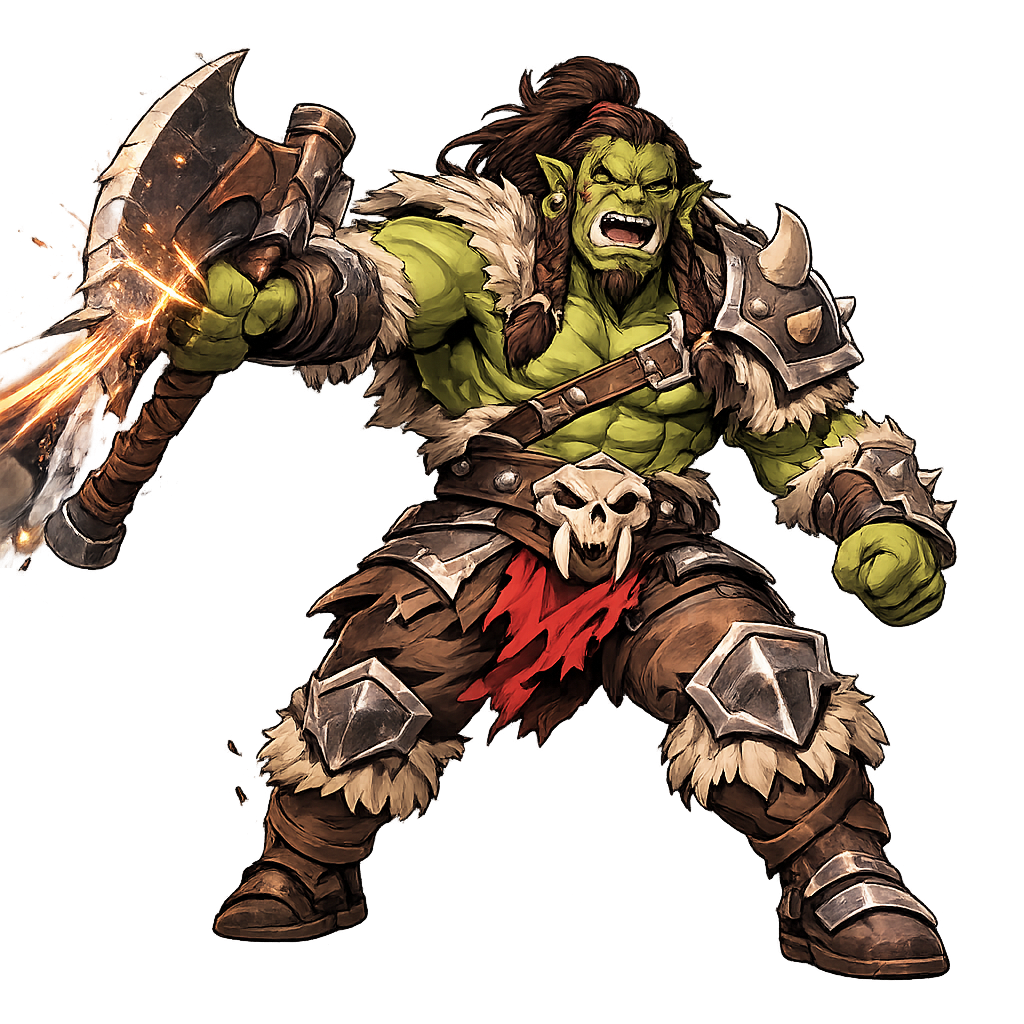
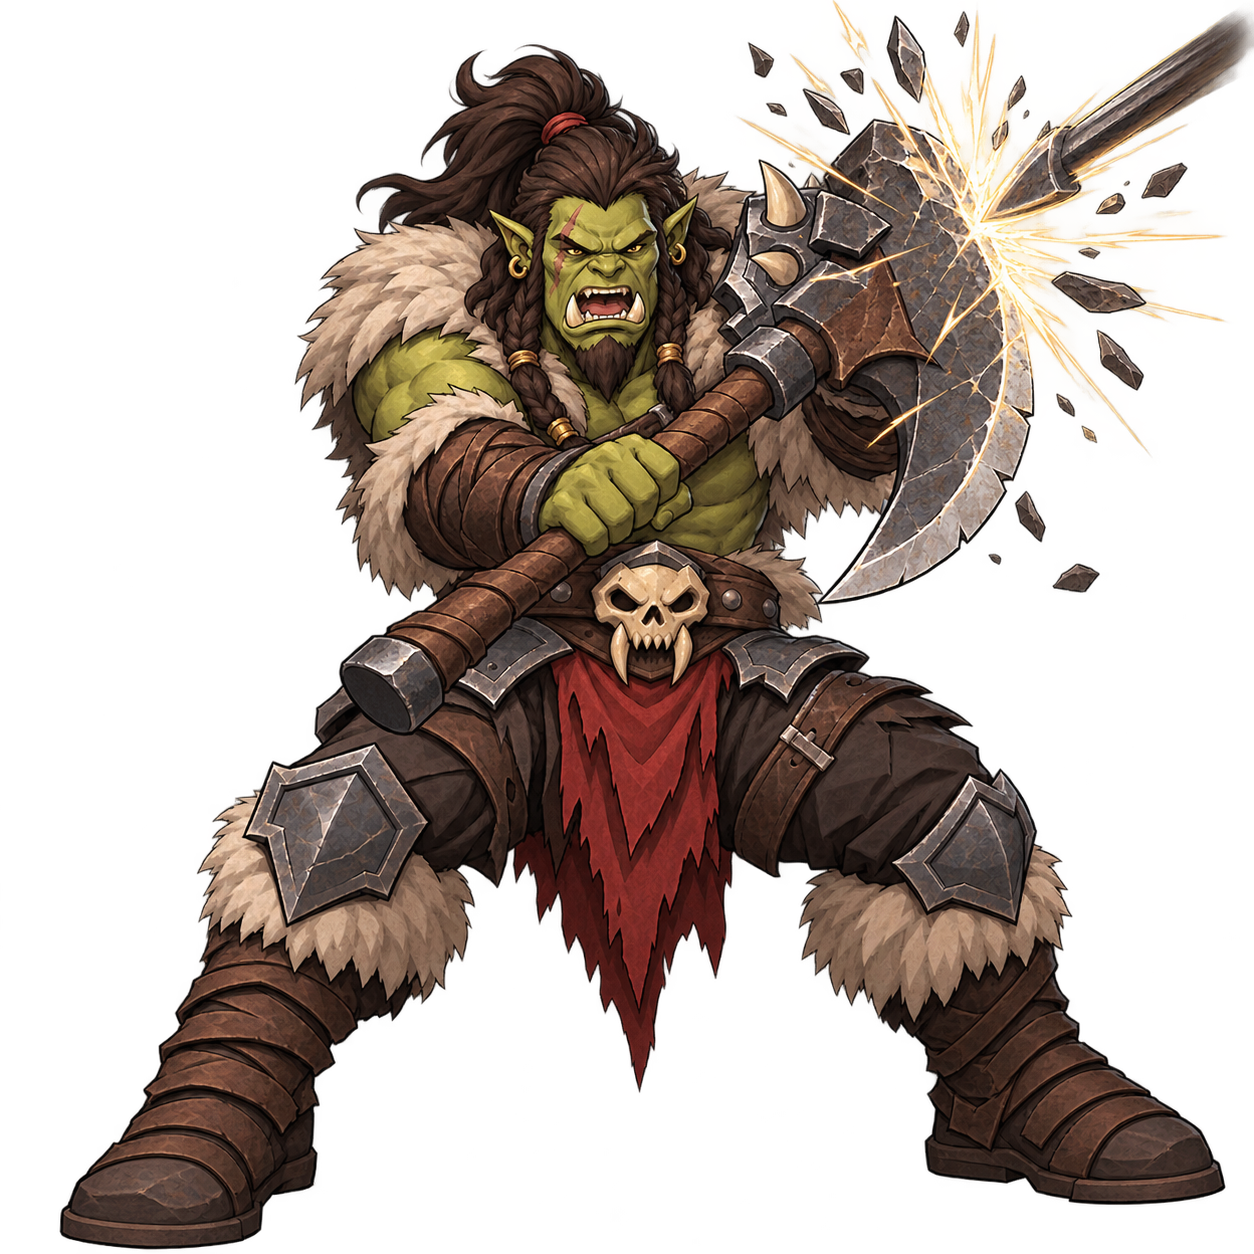
Added Attackers layer to FightersPanel animator. Fixed Orc deflect image

diff --git a/Assets/UI/Fight/Scripts/DynamicWindow.cs b/Assets/UI/Fight/Scripts/DynamicWindow.cs
@@ -51,6 +51,7 @@ public class DynamicWindow : MonoBehaviour
     public const float TARGET_X_ZERO_POINT = 0f;
     public const float FIGHTERS_CONTAINER_DEFAULT_Y = -42f;
     public const float FIGHTER_CONTAINER_DEFAULT_Y = -300f;
+    public const float ATTACKERS_CONTAINER_DEFAULT_Y = -100f;
 
     private IEnumerator AnimateMotionStatement(Sprite[] frames)
     {
@@ -236,6 +237,7 @@ public class DynamicWindow : MonoBehaviour
         SummonsContainer.gameObject.SetActive(false);
         SummonsDefeatedContainer.gameObject.SetActive(false);
         SummonAnimationsContainer.gameObject.SetActive(false);
+        AttackersContainer.anchoredPosition = new Vector2(0f, ATTACKERS_CONTAINER_DEFAULT_Y);
 
         FightersDodge.color = targets[0].GetDodgeColor();
         FightersDodge.gameObject.SetActive(false);
@@ -897,7 +899,8 @@ public class DynamicWindow : MonoBehaviour
         Enums.MoveType moveType = moveEvent.GetMoveType();
         if (moveType == Enums.MoveType.Melee || moveType == Enums.MoveType.NinTai)
         {
-            FightersAnimator.Play("Attackers_Melee", 0, 0f);
+            int attackersLayer = FightersAnimator.GetLayerIndex("Attackers");
+            FightersAnimator.Play("Attackers.Attackers_Melee", attackersLayer, 0f);
             yield return new WaitForSeconds(.2f);
         }
 
@@ -1108,7 +1111,8 @@ public class DynamicWindow : MonoBehaviour
         Enums.MoveType moveType = moveEvent.GetMoveType();
         if (moveType == Enums.MoveType.Melee || moveType == Enums.MoveType.NinTai)
         {
-            FightersAnimator.Play("Attackers_Melee", 0, 0f);
+            int attackersLayer = FightersAnimator.GetLayerIndex("Attackers");
+            FightersAnimator.Play("Attackers.Attackers_Melee", attackersLayer, 0f);
             yield return new WaitForSeconds(.2f);
         }
 
